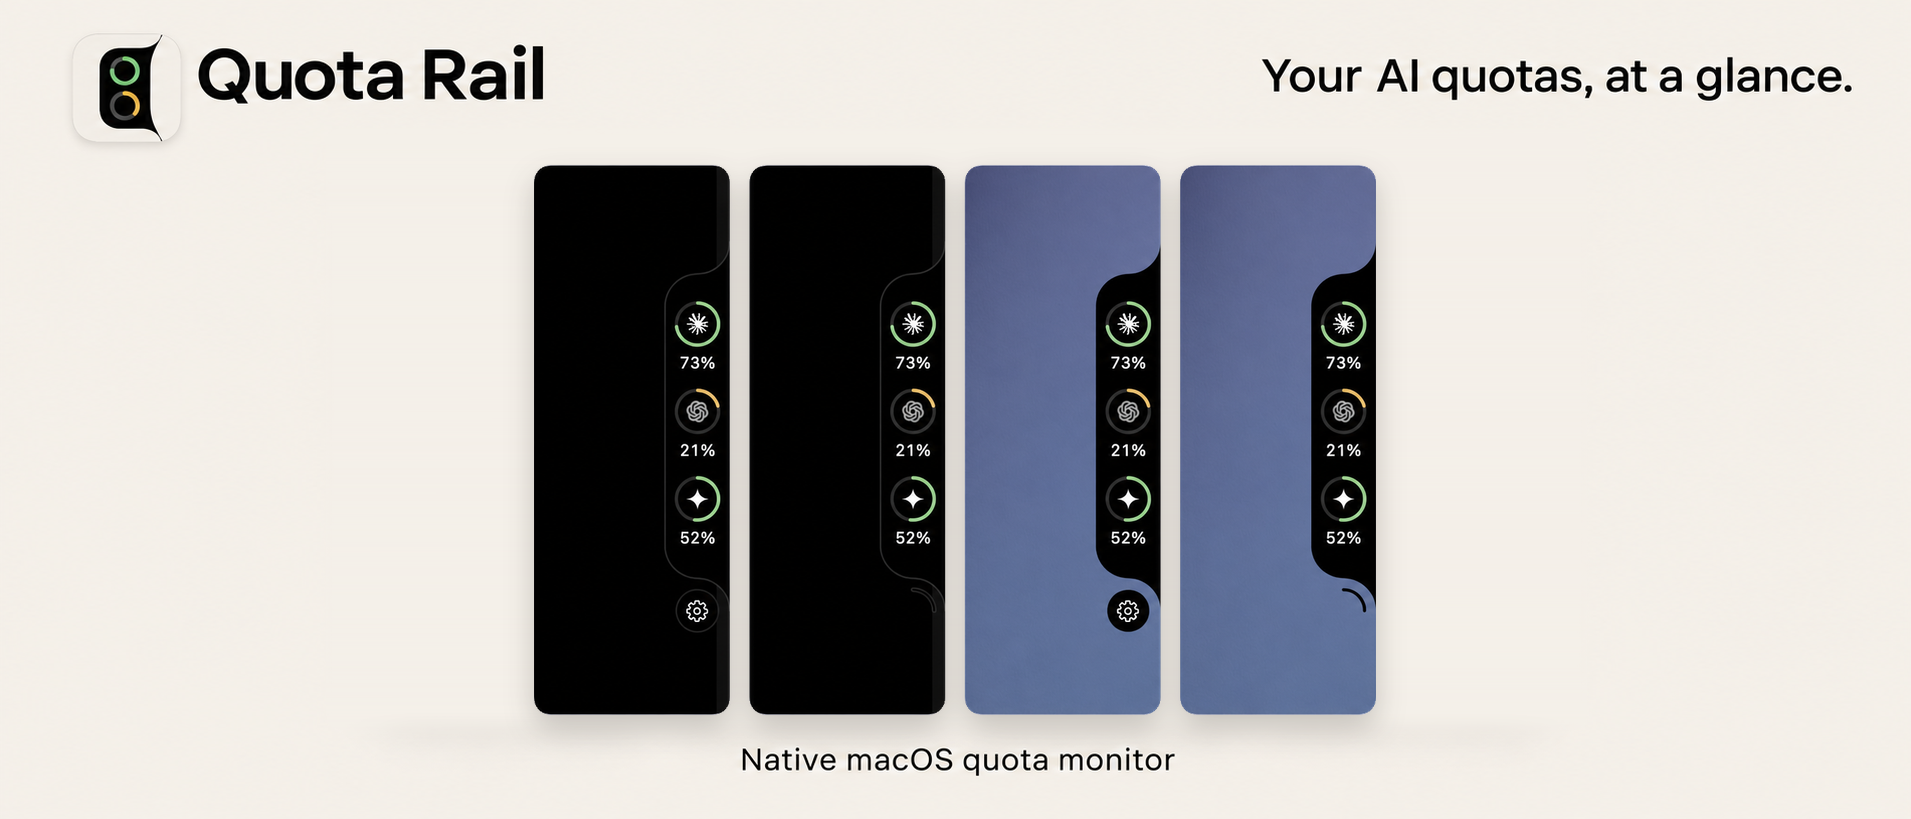
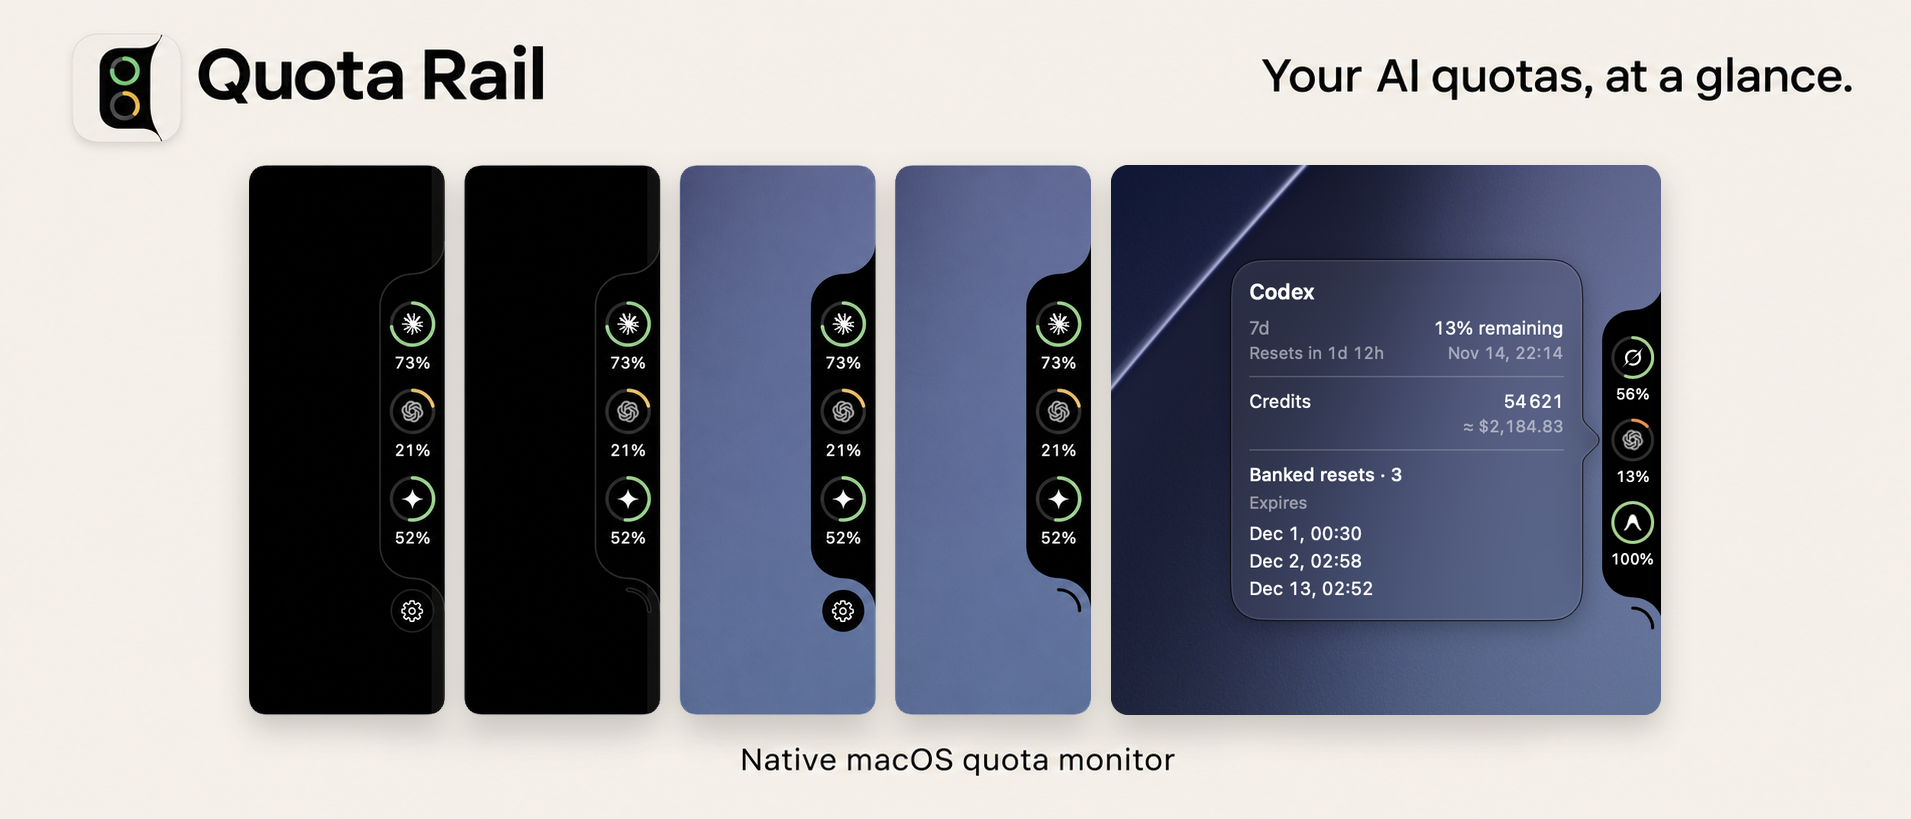
docs(readme): show the updated quota details

diff --git a/README.md b/README.md
@@ -1,6 +1,6 @@
 # Quota Rail
 
-![Quota Rail app icon and wordmark above four quota indicator cards on dark and slate blue desktops](docs/images/readme-hero-composited.png)
+![Quota Rail app icon and wordmark above four quota indicator cards and an open Codex details popover](docs/images/readme-hero-composited.png)
 
 A native macOS overlay for checking how much of your AI subscriptions you have left. Hover over the right edge of the screen to reveal your quotas, then click a ring for details.
 
@@ -63,7 +63,7 @@ Check the release notes for what ships in each download.
 Click a ring to see its quota windows and reset times. In the gear menu, choose which subscriptions appear on the rail or keep it expanded.
 
 <p>
-  <img src="docs/images/quota-details-palette.png" width="420" alt="Codex popover showing weekly quota, credits, and expiration dates for three banked resets">
+  <img src="docs/images/quota-details-palette.png" width="420" alt="Codex popover showing weekly quota, time until reset, credits, and expiration dates for three banked resets">
 </p>
 
 ## Development
